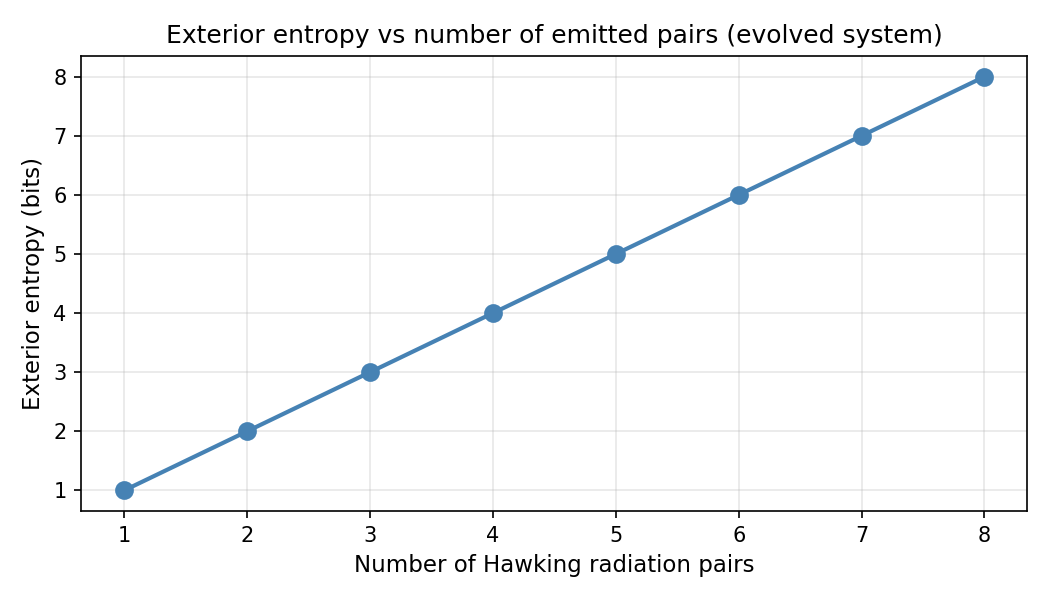
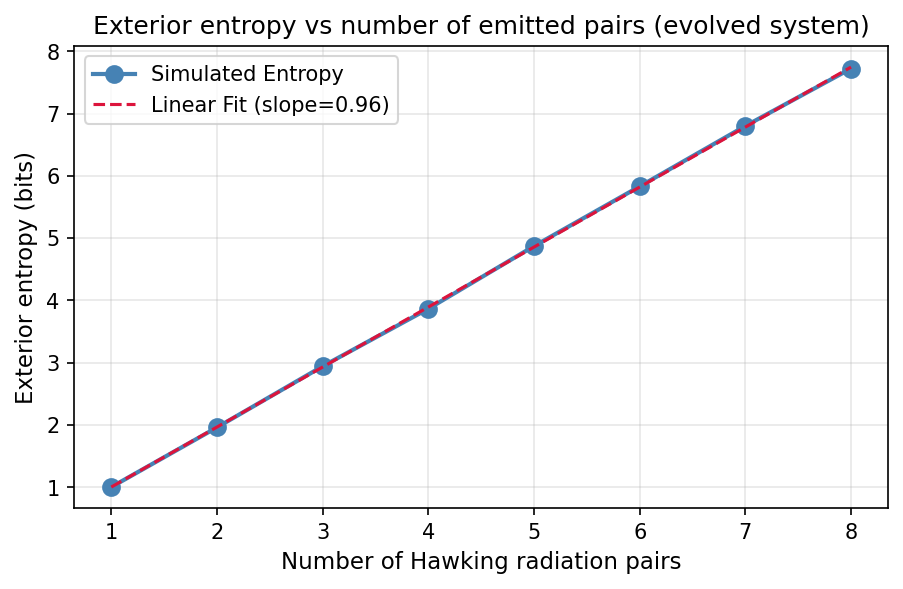
Introduced Page Curve

diff --git a/main.py b/main.py
@@ -58,21 +58,43 @@ def generate_pairs(n_pairs):
     return qc
 
 
-# Apply one timestep of unitary evolution: rotate exterior qubits and couple nearest neighbours
-# to mimic chaotic dynamics (scrambling) of the radiation field.
+# Apply one timestep of unitary evolution using a log-depth butterfly pattern.
+# Each round doubles the interaction distance, so after ceil(log2(n)) rounds every
+# pair of qubits has been connected — full scrambling in O(log n) rounds vs O(n)
+# for the old nearest-neighbour chain. This matches the "fast scrambler" conjecture
+# for black holes (Sekino-Susskind: BHs scramble in O(log S) time).
 def evolve_radiation(qc, n_pairs, timestep):
-    # Evolve exterior particles (even)
+    # Single-qubit rotations on exterior qubits (unchanged)
     for i in range(0, 2 * n_pairs, 2):
-        # Rotate about z and y axes by angle scaling with timestep
         angle = 0.1 * timestep
         qc.rz(angle, i)
         qc.ry(angle, i)
 
-    # Interaction between particles (nearest neighbour)
-    for i in range(0, 2 * n_pairs - 2, 2):
-        # Simulate chaotic mixing of particles
-        qc.cx(i, i + 2)
-        qc.rz(0.2 * np.random.random(), i)
+    if n_pairs < 2:
+        return qc
+
+    rounds = int(np.ceil(np.log2(n_pairs)))
+
+    # Butterfly scrambling within exterior subsystem.
+    # Round r pairs logical index i with i XOR 2^r (doubling reach each round).
+    for r in range(rounds):
+        step = 1 << r  # 2^r
+        for i in range(n_pairs):
+            j = i ^ step
+            if j > i and j < n_pairs:
+                qc.cx(2 * i, 2 * j)  # ext_i → ext_j
+                qc.rz(0.2 * np.random.random(), 2 * i)
+
+    # Butterfly scrambling crossing the exterior/interior boundary.
+    # ext_i is paired with int_j using the same butterfly indexing, so
+    # entanglement spreads across the subsystem boundary in O(log n) rounds.
+    for r in range(rounds):
+        step = 1 << r
+        for i in range(n_pairs):
+            j = i ^ step
+            if j > i and j < n_pairs:
+                qc.cx(2 * i, 2 * j + 1)  # ext_i → int_j
+                qc.rz(0.15 * np.random.random(), 2 * j + 1)
 
     return qc
 
@@ -145,9 +167,61 @@ def continuous_emission_model(total_time, emission_rate):
     return entropies
 
 
+# Page curve model: start with a fixed-size black hole (bh_size qubits), apply heavy
+# scrambling, then "evaporate" one qubit at a time. At step k, qubits 0..k-1 are
+# radiation and qubits k..bh_size-1 are the remaining black hole. The entropy of the
+# radiation follows the Page curve: S(k) ≈ min(k, N-k).
+def page_curve_model(bh_size, scramble_steps=3):
+    qc = QuantumCircuit(bh_size)
+
+    # Initialize all qubits in superposition
+    for i in range(bh_size):
+        qc.h(i)
+
+    # Heavy initial scrambling to create a highly entangled pure state
+    rounds = int(np.ceil(np.log2(bh_size)))
+    for _ in range(scramble_steps):
+        for r in range(rounds):
+            step = 1 << r
+            for i in range(bh_size):
+                j = i ^ step
+                if j > i and j < bh_size:
+                    qc.cx(i, j)
+                    qc.rz(np.random.random(), i)
+                    qc.ry(np.random.random(), j)
+
+    entropies = []
+
+    # Evaporate one qubit at a time
+    for k in range(1, bh_size):
+        # Radiation: qubits 0..k-1, Black hole: qubits k..bh_size-1
+        bh_remaining = bh_size - k
+
+        # Scramble the remaining BH interior after each emission
+        if bh_remaining >= 2:
+            bh_rounds = int(np.ceil(np.log2(bh_remaining)))
+            for r in range(bh_rounds):
+                step = 1 << r
+                for i in range(bh_remaining):
+                    j = i ^ step
+                    if j > i and j < bh_remaining:
+                        qc.cx(k + i, k + j)
+                        qc.rz(np.random.random(), k + i)
+                        qc.ry(np.random.random(), k + j)
+
+        # Measure entropy of radiation by tracing out the BH
+        state = Statevector(qc)
+        bh_qubits = list(range(k, bh_size))
+        radiation_dm = partial_trace(state, bh_qubits)
+        entropy_val = entropy(radiation_dm, base=2)
+        entropies.append(entropy_val)
+
+    return entropies
+
+
 if __name__ == "__main__":
     # --- Fixed seed for reproducible graphs and tangible results ---
-    np.random.seed(42)
+    np.random.seed(100)
 
     # ========== Model 1: Entropy vs number of entangled pairs ==========
     # More pairs => more exterior–interior entanglement => higher exterior entropy.
@@ -157,31 +231,113 @@ if __name__ == "__main__":
     n_pairs_list = list(range(1, max_pairs + 1))
 
     fig1, ax1 = plt.subplots(figsize=(7, 4))
-    ax1.plot(n_pairs_list, entropies_vs_pairs, "o-", color="steelblue", linewidth=2, markersize=8)
+    # --- 1. Plot the original simulated data ---
+    ax1.plot(
+        n_pairs_list,
+        entropies_vs_pairs,
+        "o-",
+        color="steelblue",
+        linewidth=2,
+        markersize=8,
+        label="Simulated Entropy",
+    )
+
+    # --- 2. ADD THIS: Calculate and plot the line of best fit ---
+    m, c = np.polyfit(n_pairs_list, entropies_vs_pairs, 1)
+    # Use polyval to generate the line data based on our fit coefficients
+    ax1.plot(
+        n_pairs_list,
+        np.polyval([m, c], n_pairs_list),
+        color="crimson",
+        linestyle="--",
+        label=f"Linear Fit (slope={m:.2f})",
+    )
+
+    # --- 3. Formatting (Ensure ax1.legend() is called) ---
     ax1.set_xlabel("Number of Hawking radiation pairs", fontsize=11)
     ax1.set_ylabel("Exterior entropy (bits)", fontsize=11)
     ax1.set_title("Exterior entropy vs number of emitted pairs (evolved system)")
     ax1.grid(True, alpha=0.3)
     ax1.set_xticks(n_pairs_list)
-    fig1.tight_layout()
-    fig1.savefig("hawking_entropy_vs_pairs.png", dpi=150)
-    plt.close(fig1)
+    ax1.legend()  # This displays the labels on the graph
+    fig1.savefig("hawking_entropy_vs_pairs.png", dpi=150, bbox_inches="tight")
 
     # ========== Model 2: Entropy vs time (continuous stochastic emission) ==========
-    total_time = 20
-    emission_rate = 0.15  # probability per timestep to emit a new pair
+    total_time = 30
+    emission_rate = 0.25  # probability per timestep to emit a new pair
     entropies_vs_time = continuous_emission_model(total_time, emission_rate)
     time_steps = list(range(total_time))
-
+    print("Debug: ", len(time_steps), len(entropies_vs_time))
     fig2, ax2 = plt.subplots(figsize=(8, 4))
-    ax2.plot(time_steps, entropies_vs_time, color="darkgreen", alpha=0.8, linewidth=1.2)
+    # --- 1. Plot the original stochastic data ---
+    ax2.plot(
+        time_steps,
+        entropies_vs_time,
+        color="darkgreen",
+        alpha=0.5,
+        linewidth=1.2,
+        label="Stochastic Emission",
+    )
+
+    # --- 2. Calculate and plot the line of best fit ---
+    # We use time_steps as X and entropies_vs_time as Y
+    m2, c2 = np.polyfit(time_steps, entropies_vs_time, 1)
+    ax2.plot(
+        time_steps,
+        np.polyval([m2, c2], time_steps),
+        color="orange",
+        linestyle="--",
+        linewidth=2,
+        zorder=5,
+        label=f"Trendline (slope={m2:.3f})",
+    )
+
+    # --- 3. Formatting ---
     ax2.set_xlabel("Time step", fontsize=11)
     ax2.set_ylabel("Exterior entropy (bits)", fontsize=11)
-    ax2.set_title("Exterior entropy over time (continuous emission, rate=0.15)")
+    ax2.set_title(f"Exterior entropy over time (rate={emission_rate})")
     ax2.grid(True, alpha=0.3)
-    fig2.tight_layout()
-    fig2.savefig("hawking_entropy_vs_time.png", dpi=150)
-    plt.close(fig2)
+    ax2.legend()  # Crucial to see the trendline label
+    fig2.savefig("hawking_entropy_vs_time.png", dpi=150, bbox_inches="tight")
+    print(f"slope={m2:.6f}, intercept={c2:.6f}")
+    print(entropies_vs_time)
+    # ========== Model 3: Page curve ==========
+    bh_size = 12
+    page_entropies = page_curve_model(bh_size)
+    emission_steps = list(range(1, bh_size))  # k = 1, 2, ..., N-1
+
+    # Theoretical Page curve: S(k) = min(k, N-k)
+    page_theoretical = [min(k, bh_size - k) for k in emission_steps]
+
+    fig3, ax3 = plt.subplots(figsize=(7, 4))
+    ax3.plot(
+        emission_steps,
+        page_entropies,
+        "o-",
+        color="steelblue",
+        linewidth=2,
+        markersize=6,
+        label="Simulated Page Curve",
+    )
+    ax3.plot(
+        emission_steps,
+        page_theoretical,
+        "s--",
+        color="crimson",
+        linewidth=1.5,
+        markersize=5,
+        alpha=0.7,
+        label="Theoretical: min(k, N−k)",
+    )
+    ax3.axvline(
+        x=bh_size / 2, color="gray", linestyle=":", alpha=0.5, label="Page time (N/2)"
+    )
+    ax3.set_xlabel("Qubits emitted (k)", fontsize=11)
+    ax3.set_ylabel("Radiation entropy (bits)", fontsize=11)
+    ax3.set_title(f"Page Curve (N={bh_size} qubit black hole)")
+    ax3.grid(True, alpha=0.3)
+    ax3.legend()
+    fig3.savefig("hawking_page_curve.png", dpi=150, bbox_inches="tight")
 
     # ========== Summary statistics (tangible results) ==========
     print("=" * 60)
@@ -190,7 +346,9 @@ if __name__ == "__main__":
     print("\n--- Model 1: Entropy vs number of pairs ---")
     print(f"  Pairs: {n_pairs_list}")
     print(f"  Entropy (bits): {[round(s, 4) for s in entropies_vs_pairs]}")
-    print(f"  Max exterior entropy: {max(entropies_vs_pairs):.4f} bits (at {n_pairs_list[entropies_vs_pairs.index(max(entropies_vs_pairs))]} pairs)")
+    print(
+        f"  Max exterior entropy: {max(entropies_vs_pairs):.4f} bits (at {n_pairs_list[entropies_vs_pairs.index(max(entropies_vs_pairs))]} pairs)"
+    )
     print(f"  Min exterior entropy: {min(entropies_vs_pairs):.4f} bits (at 1 pair)")
 
     print("\n--- Model 2: Continuous emission over time ---")
@@ -200,5 +358,16 @@ if __name__ == "__main__":
         print(f"  Final exterior entropy: {entropies_vs_time[-1]:.4f} bits")
         print(f"  Mean entropy (when > 0): {np.mean(valid_ent):.4f} bits")
         print(f"  Max entropy in run: {max(entropies_vs_time):.4f} bits")
-    print("\n  Plots saved: hawking_entropy_vs_pairs.png, hawking_entropy_vs_time.png")
+
+    print(f"\n--- Model 3: Page curve (N={bh_size}) ---")
+    print(f"  Emitted: {emission_steps}")
+    print(f"  Entropy (bits): {[round(s, 4) for s in page_entropies]}")
+    peak_k = emission_steps[page_entropies.index(max(page_entropies))]
+    print(
+        f"  Peak entropy: {max(page_entropies):.4f} bits at k={peak_k} (Page time ≈ {bh_size // 2})"
+    )
+    print(f"  Final entropy (k={bh_size - 1}): {page_entropies[-1]:.4f} bits")
+    print(
+        "\n  Plots saved: hawking_entropy_vs_pairs.png, hawking_entropy_vs_time.png, hawking_page_curve.png"
+    )
     print("=" * 60)
